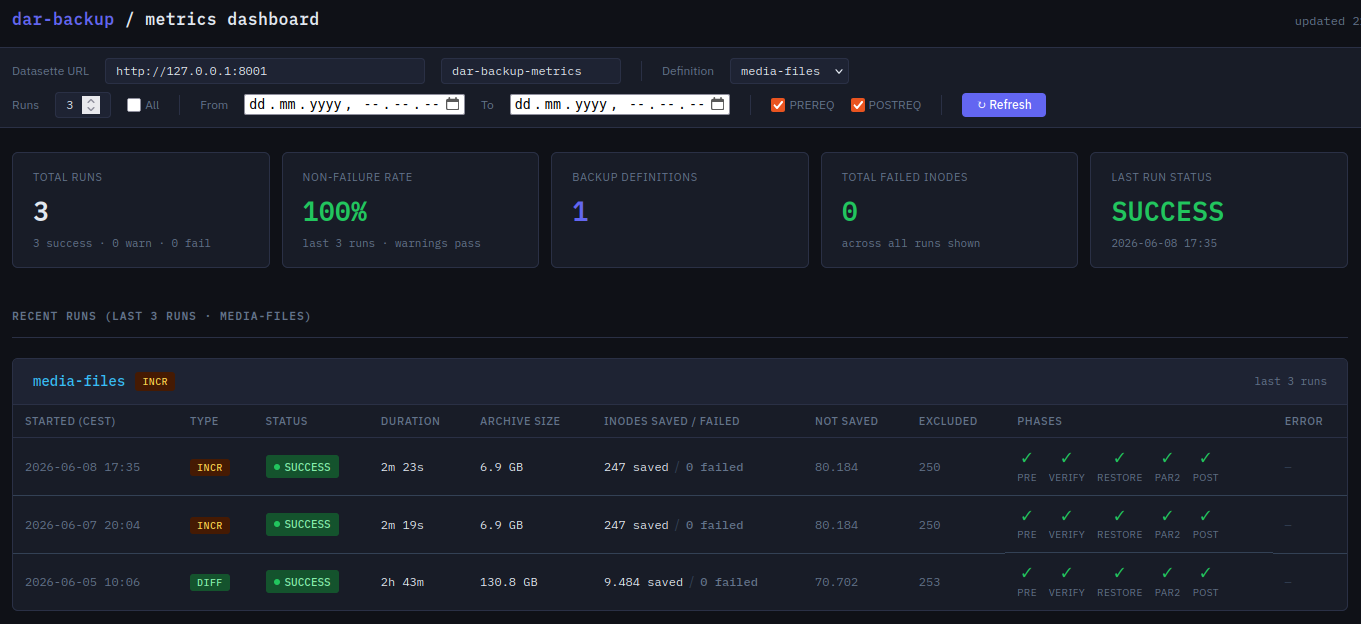
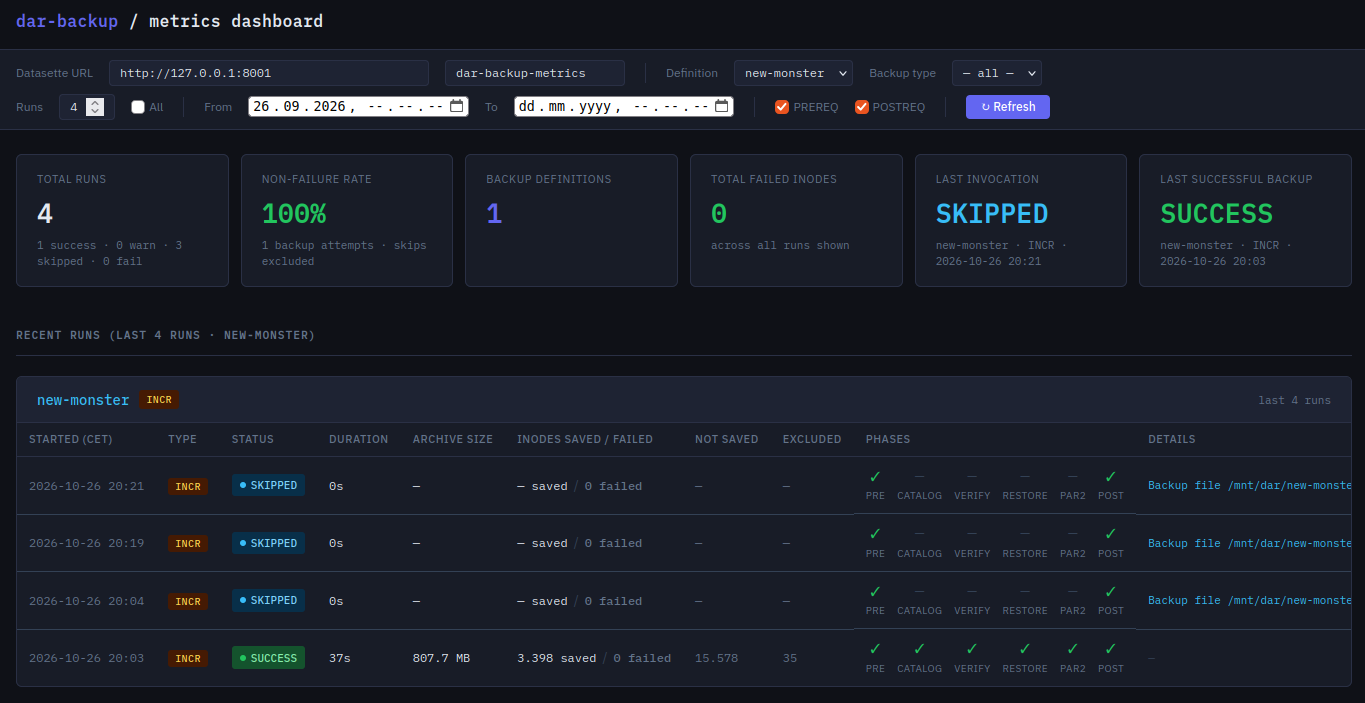
dashboard doc improvements

diff --git a/v2/src/dar_backup/__about__.py b/v2/src/dar_backup/__about__.py
@@ -3,7 +3,7 @@
 # ".devN" counter on each commit — it won't create one from a bare "X.Y.Z" or
 # a malformed suffix like "X.Y.Z-dev"/"X.Y.Z.dev", so those are silently
 # skipped and the version never advances until re-seeded with ".dev0".
-__version__ = "1.1.12.dev104"
+__version__ = "1.1.12.dev105"
 
 __author__ = "Per Jensen"
 

diff --git a/v2/doc/dashboard-and-metrics.md b/v2/doc/dashboard-and-metrics.md
@@ -11,17 +11,23 @@ framework, no build step.
 
 [![dar-backup dashboard](dar-backup-dashboard.png)](dar-backup-dashboard-full.png)
 
-The full dashboard shows multiple backup definitions side by side, including how
-a failed run is surfaced — highlighted in amber so it stands out immediately:
+The full dashboard shows multiple backup definitions side by side. A failed
+backup has a red `FAILURE` status; an amber row border separately calls attention
+to a run in which DAR reported one or more failed inodes:
 
 [![dar-backup full dashboard](dar-backup-dashboard-full.png)](dar-backup-dashboard-full.png)
 
 ### What the dashboard shows
 
-At the top, summary metric cards give an instant health overview:
+At the top, summary metric cards give an instant health overview. Except for the
+two latest-run cards described below, these cards summarize the matching rows in
+the displayed recent-run window:
 
-- Total runs recorded
-- Non-failure rate across attempted backups; skipped runs are excluded
+- Total matching runs displayed
+- Non-failure rate across attempted backups, calculated as
+  `(SUCCESS + WARNING) / (SUCCESS + WARNING + FAILURE)`; skipped runs are
+  excluded from both numerator and denominator, and an all-skipped selection
+  displays `N/A`
 - Number of distinct backup definitions
 - Total failed inodes across all runs shown — the key indicator for FUSE-mounted
   storage issues such as the pCloud Crypto Folder (see [Troubleshooting: error code 5](troubleshooting.md#backup-warning-about-error-code-5))
@@ -47,20 +53,37 @@ three runs in a table with the following columns:
 Rows with failed inodes are highlighted with a left amber border so they stand
 out at a glance without needing to read every cell.
 
+#### Run outcomes
+
+| Outcome | Meaning | Included in non-failure rate? |
+| --- | --- | --- |
+| `SUCCESS` | The backup completed and passed verification. | Yes, as a non-failure |
+| `WARNING` | The backup completed and passed verification, but DAR reported recoverable filesystem problems such as files it could not save. | Yes, as a non-failure |
+| `SKIPPED` | No backup was attempted because the target archive already existed. This is neither a successful nor a failed backup. | No |
+| `FAILURE` | The backup pipeline failed and did not complete successfully. | Yes, as a failure |
+
+`SKIPPED` retains the PREREQ and POSTREQ phase results because those phases still
+ran. Backup-only phases that were not attempted are displayed as dashes. Existing
+historical rows are not reclassified when the metrics schema gains `SKIPPED`;
+only newly recorded duplicate-archive invocations use the distinct outcome.
+
 ### Filtering the dashboard
 
 The filter bar can limit the dashboard by backup definition, backup type
 (`FULL`, `DIFF`, or `INCR`), local start/end time, and whether PREREQ or POSTREQ
-failures are included. All selected filters apply consistently to the summary
-cards, recent-run tables, and trend charts.
+failures are included. These filters apply consistently to the summary cards,
+recent-run tables, and trend charts.
 
 The **Runs** value controls how many of the most recent matching runs are shown
 per backup definition. For example, selecting `FULL` with **Runs** set to `3`
 shows the three most recent FULL backups for each definition; intervening DIFF
 and INCR runs do not consume those three positions. Select **All** to remove the
-recent-run limit. The latest-invocation card, latest-successful-backup card, and
-trend charts always use the full history matching the other filters. This keeps
-newer skipped invocations from hiding the most recent successful backup.
+recent-run limit. It therefore also defines the rows counted by **Total runs**,
+**Non-failure rate**, **Backup definitions**, and **Total failed inodes**. The
+**Last invocation** card, **Last successful backup** card, and trend charts
+always use the full history matching the other filters and ignore the **Runs**
+limit. The successful-backup card accepts only strict `SUCCESS` rows, so newer
+`SKIPPED`, `WARNING`, or `FAILURE` invocations cannot hide the last clean backup.
 
 Below the recent-run tables, one trend chart is rendered per backup definition,
 covering the full run history in the database.  See
@@ -250,33 +273,33 @@ later cleanup timestamps only rows that are active at that time.
 | Column | Type | Description |
 | --- | --- | --- |
 | `run_started_at` | TEXT | ISO-8601 timestamp when the backup started. |
-| `run_finished_at` | TEXT | ISO-8601 timestamp when the full run finished (including verify and par2). |
+| `run_finished_at` | TEXT | ISO-8601 timestamp when the invocation finished. For an attempted backup this includes verify and par2; a skipped invocation finishes without running backup-only phases. |
 | `duration_secs` | REAL | Total wall-clock seconds for the entire run. |
-| `dar_duration_secs` | REAL | Seconds spent in the dar backup phase only. |
-| `verify_duration_secs` | REAL | Seconds spent in the verify phase. |
-| `par2_duration_secs` | REAL | Seconds spent generating par2 redundancy files. |
+| `dar_duration_secs` | REAL | Seconds spent in the dar backup phase only, or NULL when DAR did not run. |
+| `verify_duration_secs` | REAL | Seconds spent in the verify phase, or NULL when verification did not run. |
+| `par2_duration_secs` | REAL | Seconds spent generating par2 redundancy files, or NULL when par2 did not run. |
 
 #### Outcome
 
 | Column | Type | Description |
 | --- | --- | --- |
 | `status` | TEXT | `SUCCESS`, `WARNING`, `SKIPPED`, or `FAILURE`. `SKIPPED` means no archive was created because the target archive already existed. |
-| `dar_exit_code` | INTEGER | Raw exit code returned by dar (0 = success, 5 = some files skipped due to filesystem errors, etc.). |
-| `failed_phase` | TEXT | `DAR`, `VERIFY`, `CATALOG`, or `PAR2` — set when a phase fails; NULL on success. |
+| `dar_exit_code` | INTEGER | Raw exit code returned by dar (0 = success, 5 = some files skipped due to filesystem errors, etc.), or NULL when DAR did not run. |
+| `failed_phase` | TEXT | `PREREQ`, `DAR`, `VERIFY`, `CATALOG`, or `PAR2` — set when a phase fails; NULL when no phase failed, including a skipped invocation. |
 | `error_summary` | TEXT | Short human-readable description of the first error or skip reason encountered, or NULL. |
-| `catalog_updated` | INTEGER | `1` if the verified archive was added to the dar manager catalog, `0` if registration failed or was skipped because DAR aborted or verification failed. |
-| `verify_passed` | INTEGER | `1` if the archive integrity test passed. |
-| `restore_test_passed` | INTEGER | `1` if the restore test passed. |
-| `par2_passed` | INTEGER | `1` if par2 file generation succeeded. |
+| `catalog_updated` | INTEGER | `1` if the verified archive was added to the dar manager catalog, `0` if registration failed or the attempted backup could not be published, and NULL when the catalog phase did not run. |
+| `verify_passed` | INTEGER | `1` if the archive integrity test passed, `0` for an explicitly recorded failed result, and NULL when no result was recorded or verification did not run. |
+| `restore_test_passed` | INTEGER | `1` if the restore comparison passed, `0` if it failed, and NULL when no restore comparison ran. |
+| `par2_passed` | INTEGER | `1` if par2 generation succeeded, `0` for an explicitly recorded failed result, and NULL when no result was recorded or the phase did not run. |
 
 #### Archive size
 
 | Column | Type | Description |
 | --- | --- | --- |
-| `archive_size_bytes` | INTEGER | Total size of all `.dar` slice files in bytes. |
-| `num_slices` | INTEGER | Number of dar archive slices. |
-| `par2_size_bytes` | INTEGER | Total size of all `.par2` files in bytes. |
-| `files_verified` | INTEGER | Number of files verified during the verify phase. |
+| `archive_size_bytes` | INTEGER | Total size of all `.dar` slice files in bytes, or NULL when no archive was measured, including skipped invocations. |
+| `num_slices` | INTEGER | Number of dar archive slices, or NULL when no archive was measured, including skipped invocations. |
+| `par2_size_bytes` | INTEGER | Total size of all `.par2` files in bytes, or NULL when no par2 output was measured. |
+| `files_verified` | INTEGER | Number of files verified during the restore-comparison phase, or NULL when no files were compared. |
 | `backup_dir_free_bytes` | INTEGER | Free space on the backup destination at run end. |
 
 #### dar inode statistics

diff --git a/CHANGELOG.md b/CHANGELOG.md
@@ -6,7 +6,9 @@ High-level release summary. For detailed per-release notes see [v2/Changelog.md]
 ## v2-1.1.12 - not released
 
 - Optional disk-backed percentage sampling and strictly reconciled data-slice coverage strengthen restore verification for large backups, including SELinux-EA-aware DAR slicing parsing, without changing existing configurations
-- The Datasette-backed metrics dashboard can now filter summaries, recent runs, and trends by FULL, DIFF, or INCR backup type
+- Duplicate-archive invocations are now recorded and displayed as distinct `SKIPPED` outcomes without rewriting historical rows; skips remain visible, retain PRE/POST phase results, and are excluded from backup success statistics
+- CLI completion and Discord reporting now distinguish skipped backups from warnings and failures while retaining exit code 2 for an already-existing archive
+- The Datasette-backed metrics dashboard can now filter summaries, recent runs, and trends by FULL, DIFF, or INCR backup type, and separately identifies the latest invocation and latest strictly successful backup from complete filtered history
 - Cleanup now retains metrics rows with a deletion timestamp while the dashboard shows only active archives and prints its database path
 - Reject metrics databases inside `BACKUP_DIR` to prevent mount-dependent split histories
 - Instance locks now use one deterministic directory per execution identity, with explicit shared-directory configuration available
